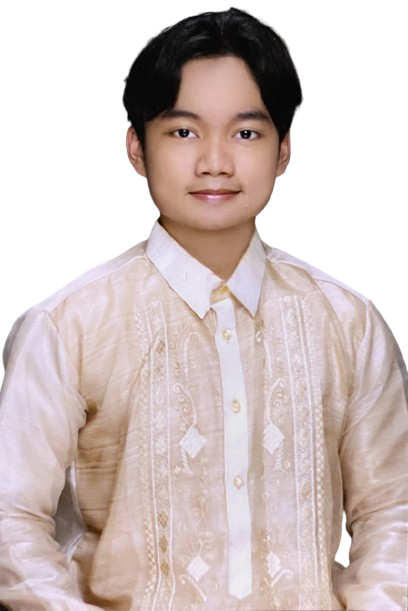
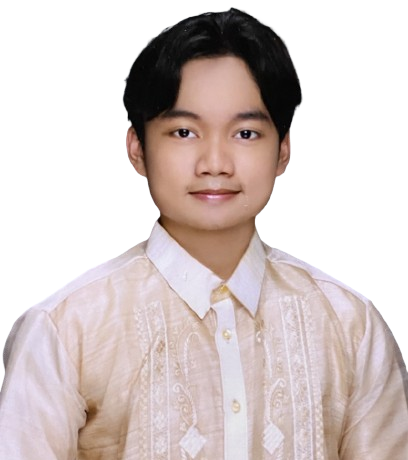
adjusted image and initialized certifications

diff --git a/components/Photo.jsx b/components/Photo.jsx
@@ -3,10 +3,25 @@
 import { motion } from "framer-motion";
 import Image from "next/image";
 
-
 const Photo = () => {
     return (
         <div className="w-full h-full relative">
+            {/* circle */}
+            <motion.svg
+                className="w-[300px] xl:w-[506px] h-[300px] xl:h-[506px] absolute z-0"
+                fill="transparent"
+                viewBox="0 0 506 506"
+                xmlns="http://www.w3.org/2000/svg"
+            >
+                <motion.circle cx="203" cy="253" r="250" stroke="#00ff99" strokeWidth="5" strokeLinecap="round" initial={{strokeDasharray: "24 10 0 0"}} 
+                animate={{strokeDasharray: ["15 120 25 25", "16 25 92 72", "4 250 22 22"], rotate: [120, 360]}} 
+                transition={{
+                    duration: 20, 
+                    repeat: Infinity, 
+                    repeatType: "reverse"
+                }}/>
+            </motion.svg>
+            {/* image */}
             <motion.div initial={{opacity: 0}} animate={{
                 opacity: 1, 
                 transition: {
@@ -15,9 +30,10 @@ const Photo = () => {
                     ease: 'easeIn'
                 }
             }}
-            className="w-[198px] h-[198px] xl:w-[498px] xl:h-[498px] rounded-full overflow-hidden mix-blend-lighten"
             >
-                <Image src="/assets/Gaille.png" priority quality={100} fill alt="Gaille" className="object-contain rounded-full" />
+                <div className="w-[298px] h-[298px] xl:w-[498px] xl:h-[498px] rounded-full overflow-hidden mix-blend-lighten relative z-10">
+                    <Image src="/assets/Gaille.png" priority quality={100} fill alt="Gaille" className="object-contain rounded-full" />
+                </div>
             </motion.div>
         </div>
     );

diff --git a/components/Nav.jsx b/components/Nav.jsx
@@ -21,6 +21,10 @@ const links = [
         path: '/work'
     },
     {
+        name: 'certifications', 
+        path: '/certifications'
+    },
+    {
         name: 'contact', 
         path: '/contact'
     }

diff --git a/app/certifications/page.jsx b/app/certifications/page.jsx
@@ -1,0 +1,5 @@
+const Certifications = () => {
+    return <div>certifications page</div>
+};
+
+export default Certifications;
